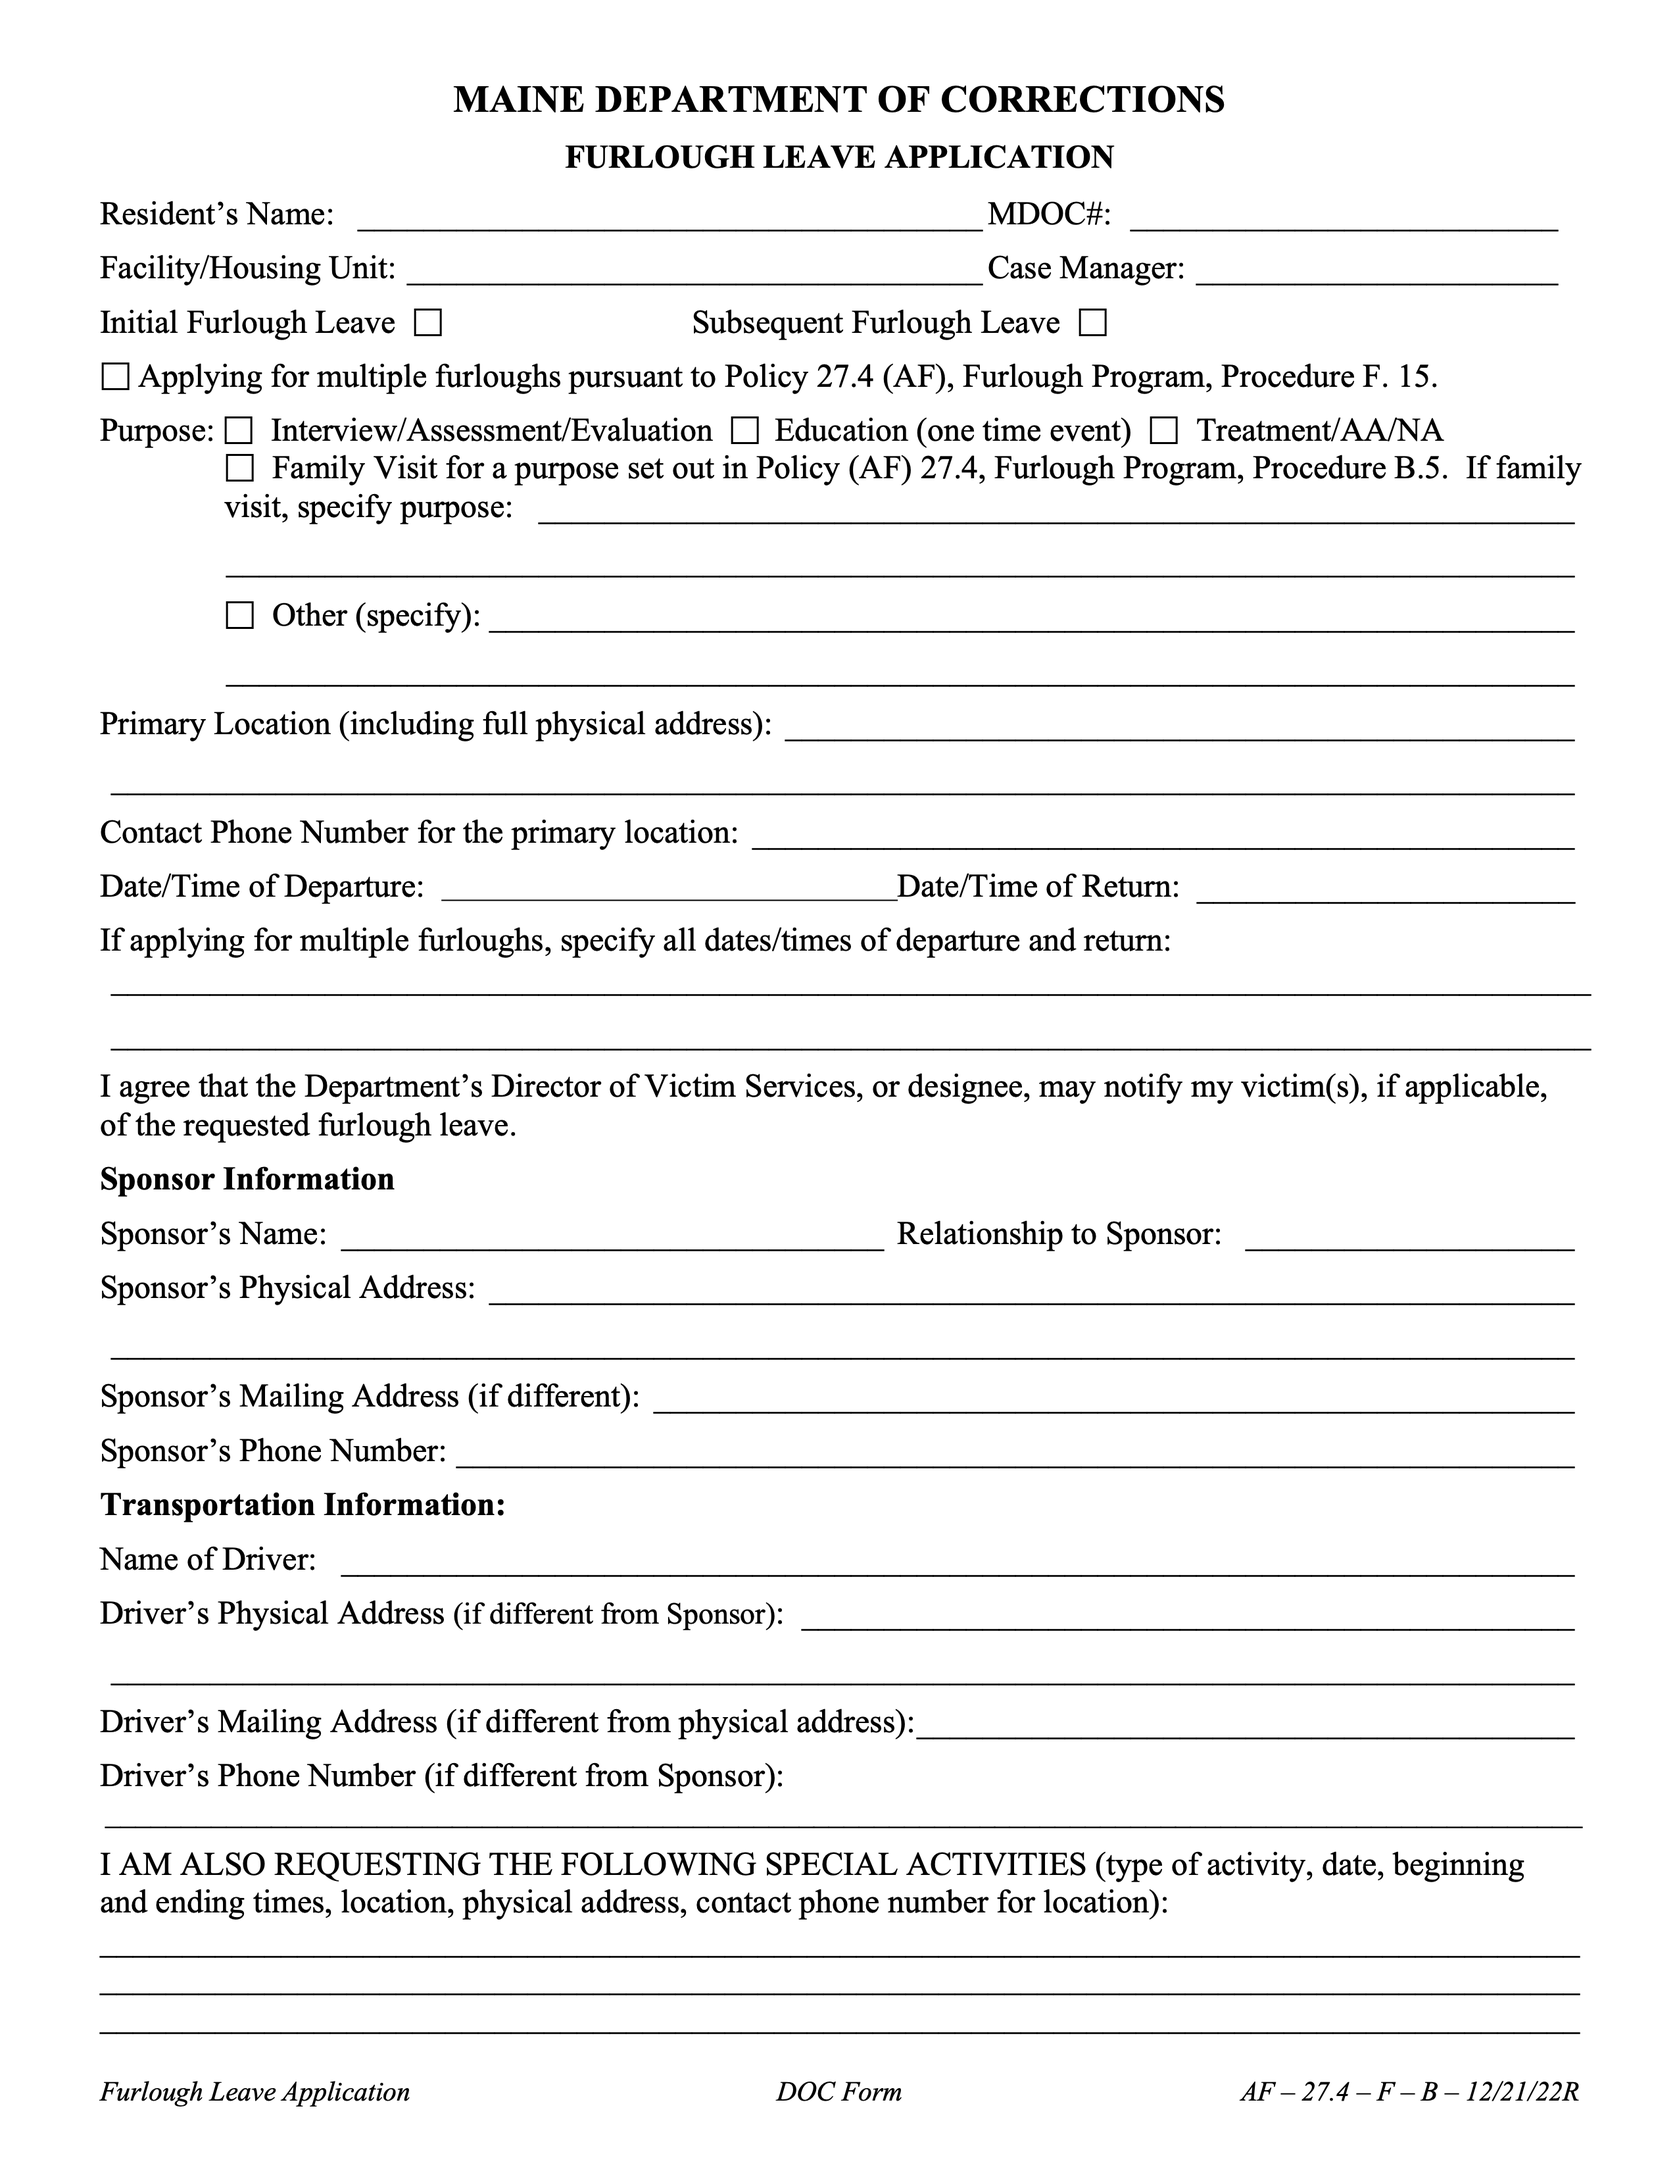
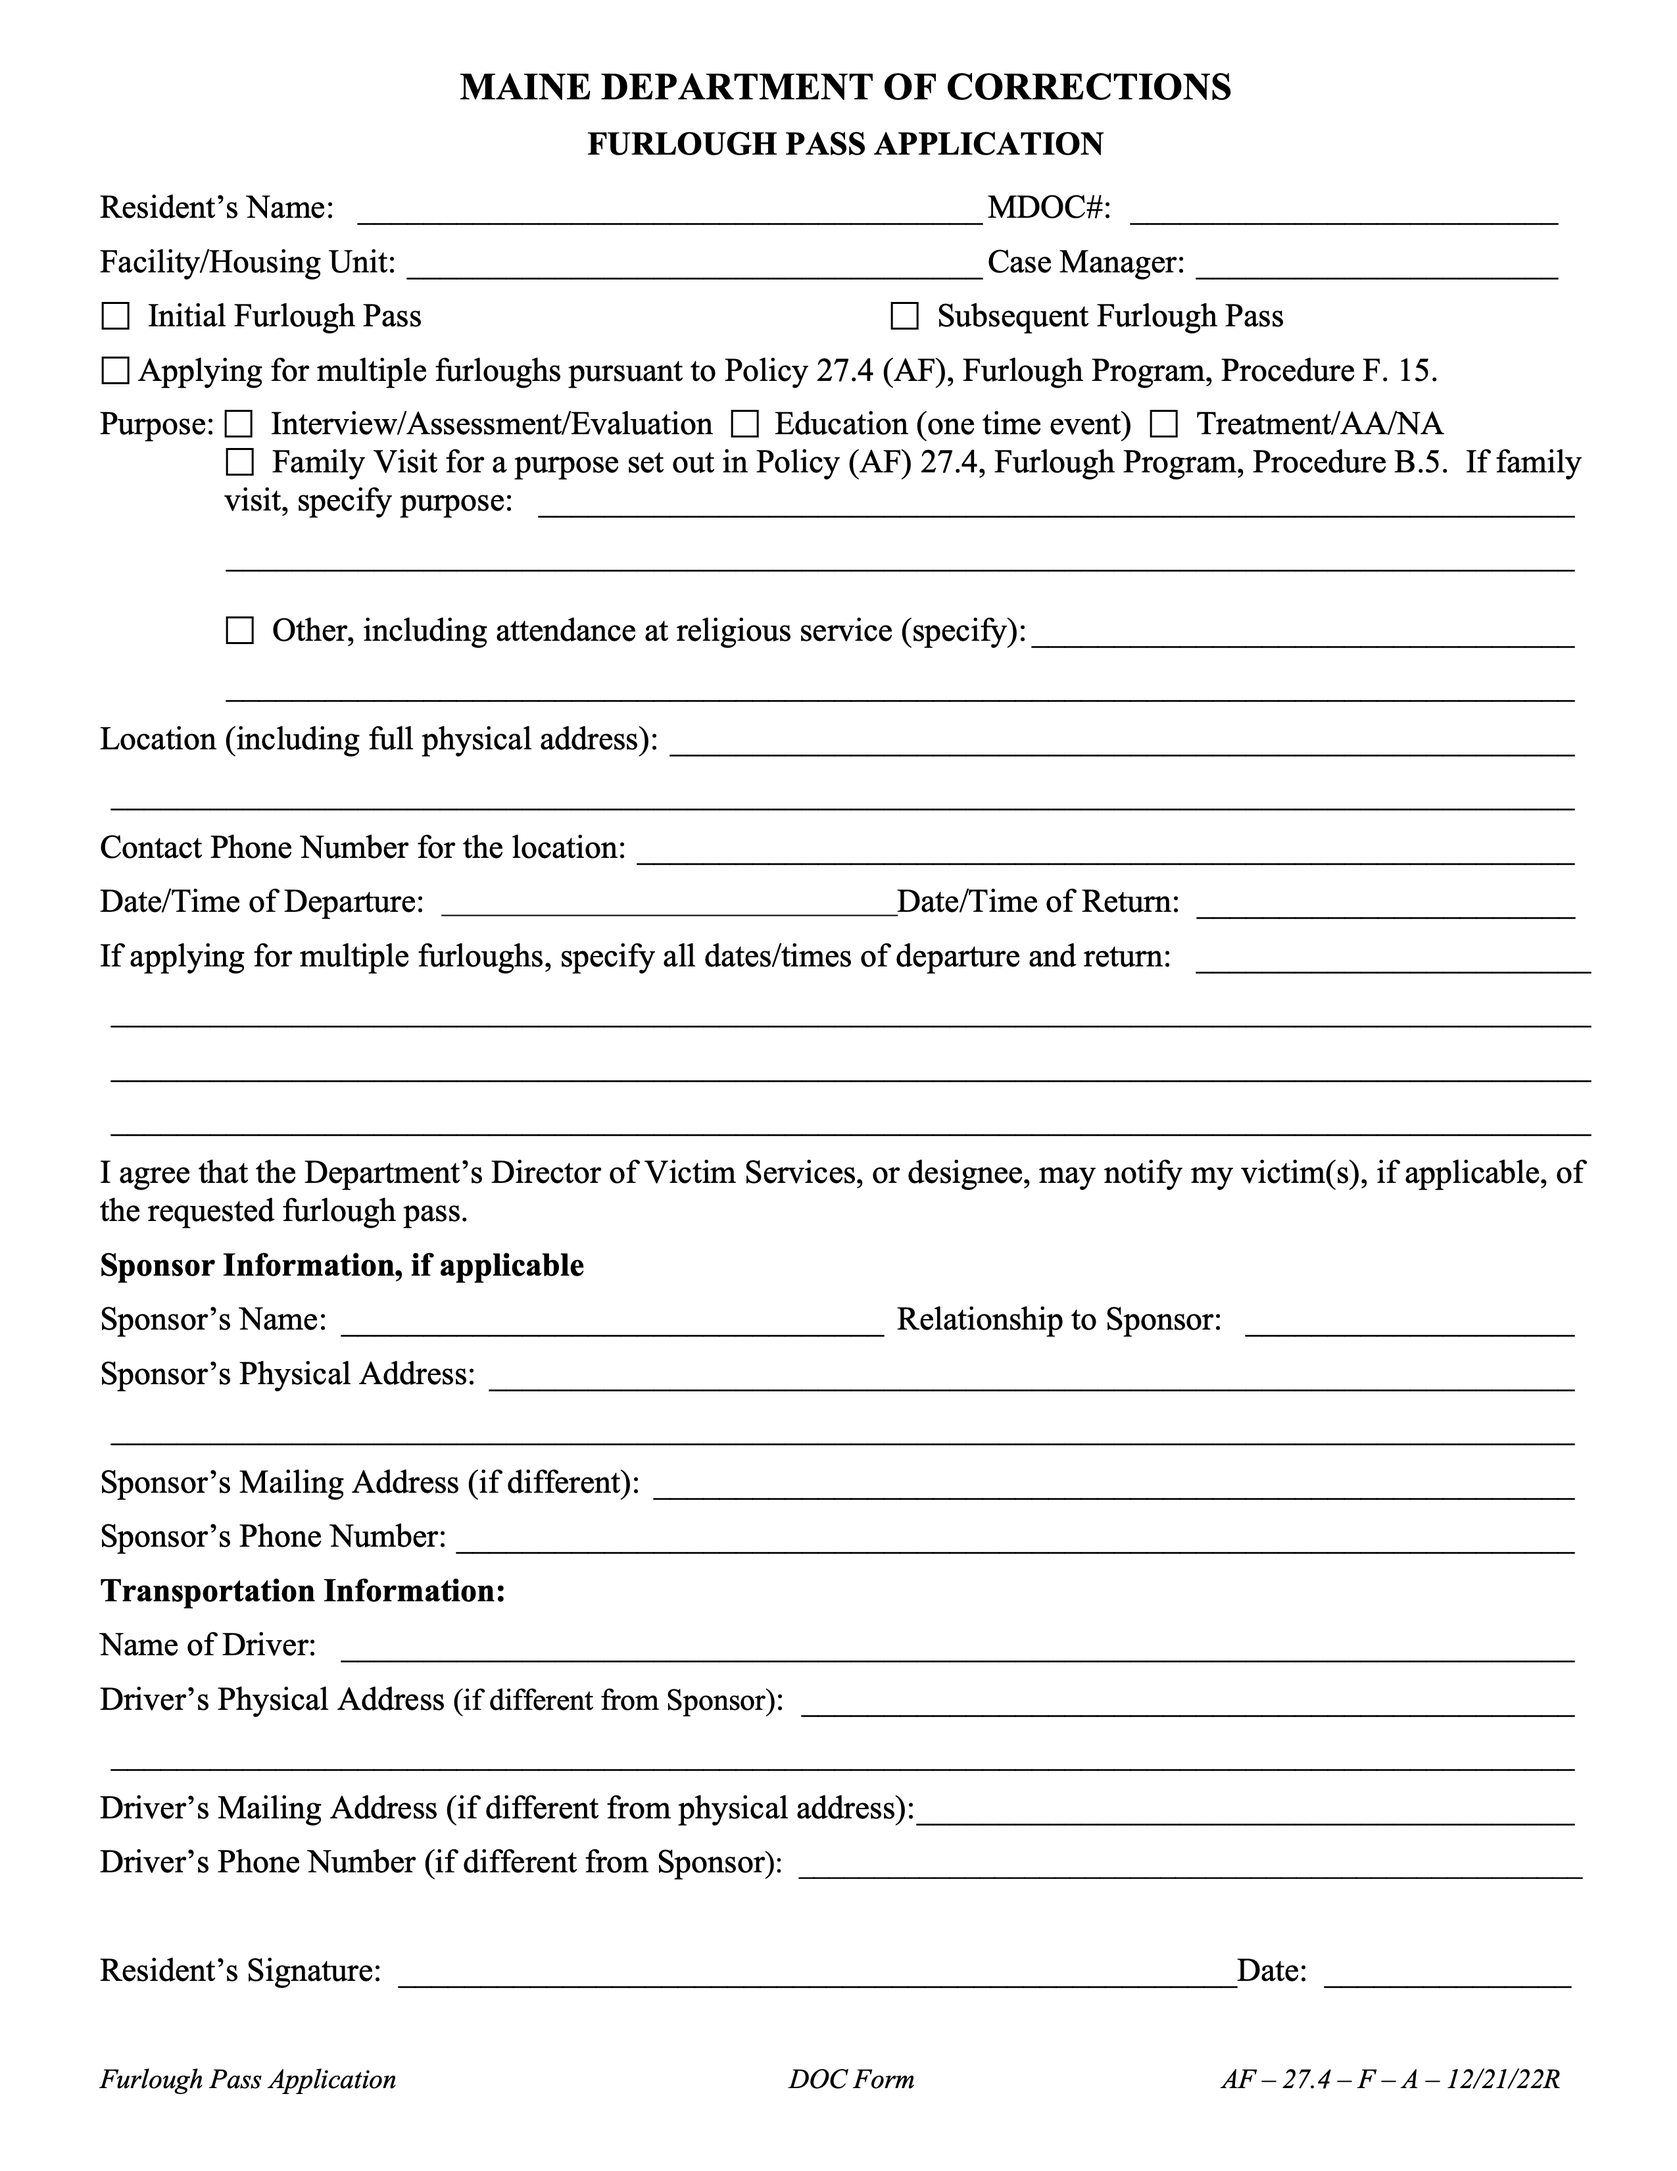
[Workflows] [US_ME] Work Release and Furlough denial map reasons (Recidiviz/recidiviz-dashboards#3839)
* Added other denial map reasons, updated furlough decline

* Moved furlough forms around so pass is first

GitOrigin-RevId: ea129c5c402e9123d181c102bcd36611b063b9b3

diff --git a/src/WorkflowsStore/Opportunity/UsMeWorkReleaseOpportunity.ts b/src/WorkflowsStore/Opportunity/UsMeWorkReleaseOpportunity.ts
@@ -21,6 +21,7 @@ import { computed, makeObservable } from "mobx";
 
 import { OpportunityProfileModuleName } from "../../core/WorkflowsClientProfile/OpportunityProfile";
 import { Resident } from "../Resident";
+import { OTHER_KEY } from "../utils";
 import { UsMeWorkReleaseForm } from "./Forms/UsMeWorkReleaseForm";
 import { OpportunityBase } from "./OpportunityBase";
 import { OpportunityRequirement } from "./types";
@@ -32,9 +33,10 @@ import {
 
 const DENIAL_REASONS_MAP = {
   "CASE PLAN": "Not compliant with case plan goals",
-  PROGRAM:
-    "Has not completed, or is not currently participating in, required core programming",
+  PROGRAM: "Has not completed required core programming",
+  DISCIPLINE: "Has a Class A or B disciplinary violation pending",
   DECLINE: "Resident declined opportunity to apply for Work Release",
+  [OTHER_KEY]: "Other, please specify a reason",
 };
 
 const ELIGIBLE_CRITERIA_COPY: Record<

diff --git a/src/WorkflowsStore/Opportunity/UsMeFurloughReleaseOpportunity.ts b/src/WorkflowsStore/Opportunity/UsMeFurloughReleaseOpportunity.ts
@@ -35,7 +35,7 @@ const DENIAL_REASONS_MAP = {
   "CASE PLAN": "Not compliant with case plan goals",
   PROGRAM: "Has not completed required core programming",
   DISCIPLINE: "Has a Class A or B disciplinary violation pending",
-  DECLINE: "Resident declined opportunity to apply for SCCP",
+  DECLINE: "Resident declined opportunity to apply for Furlough",
   [OTHER_KEY]: "Other, please specify a reason",
 };
 
